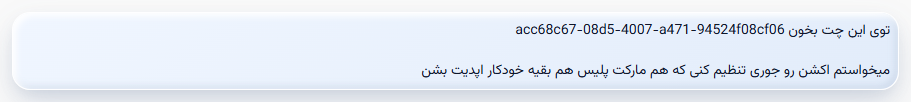
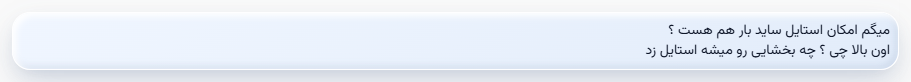
chore(release): bump version to 3.3.0 for sovereign clay chat bubbles and input box

Changed region(s): [[0.461, 0.5366, 0.9835, 0.7805], [0.5532, 0.2195, 0.9835, 0.4634], [0.0307, 0.8293, 0.9835, 0.878]]

diff --git a/plugin/sidecars/studio/popup-engine.js b/plugin/sidecars/studio/popup-engine.js
@@ -1,7 +1,7 @@
 // Antigravity UI Studio - CDP Sidebar & Popup Injector Engine
 // Injects native-looking sidebar button and customizer popup directly into Antigravity Chat Window without any Asar patches!
 
-export function generatePopupBundle(config, fontBase64, sidecarPort, sidecarToken, currentVersion = '3.2.0') {
+export function generatePopupBundle(config, fontBase64, sidecarPort, sidecarToken, currentVersion = '3.3.0') {
   const cfgJson = JSON.stringify(config);
   return `
 (() => {
